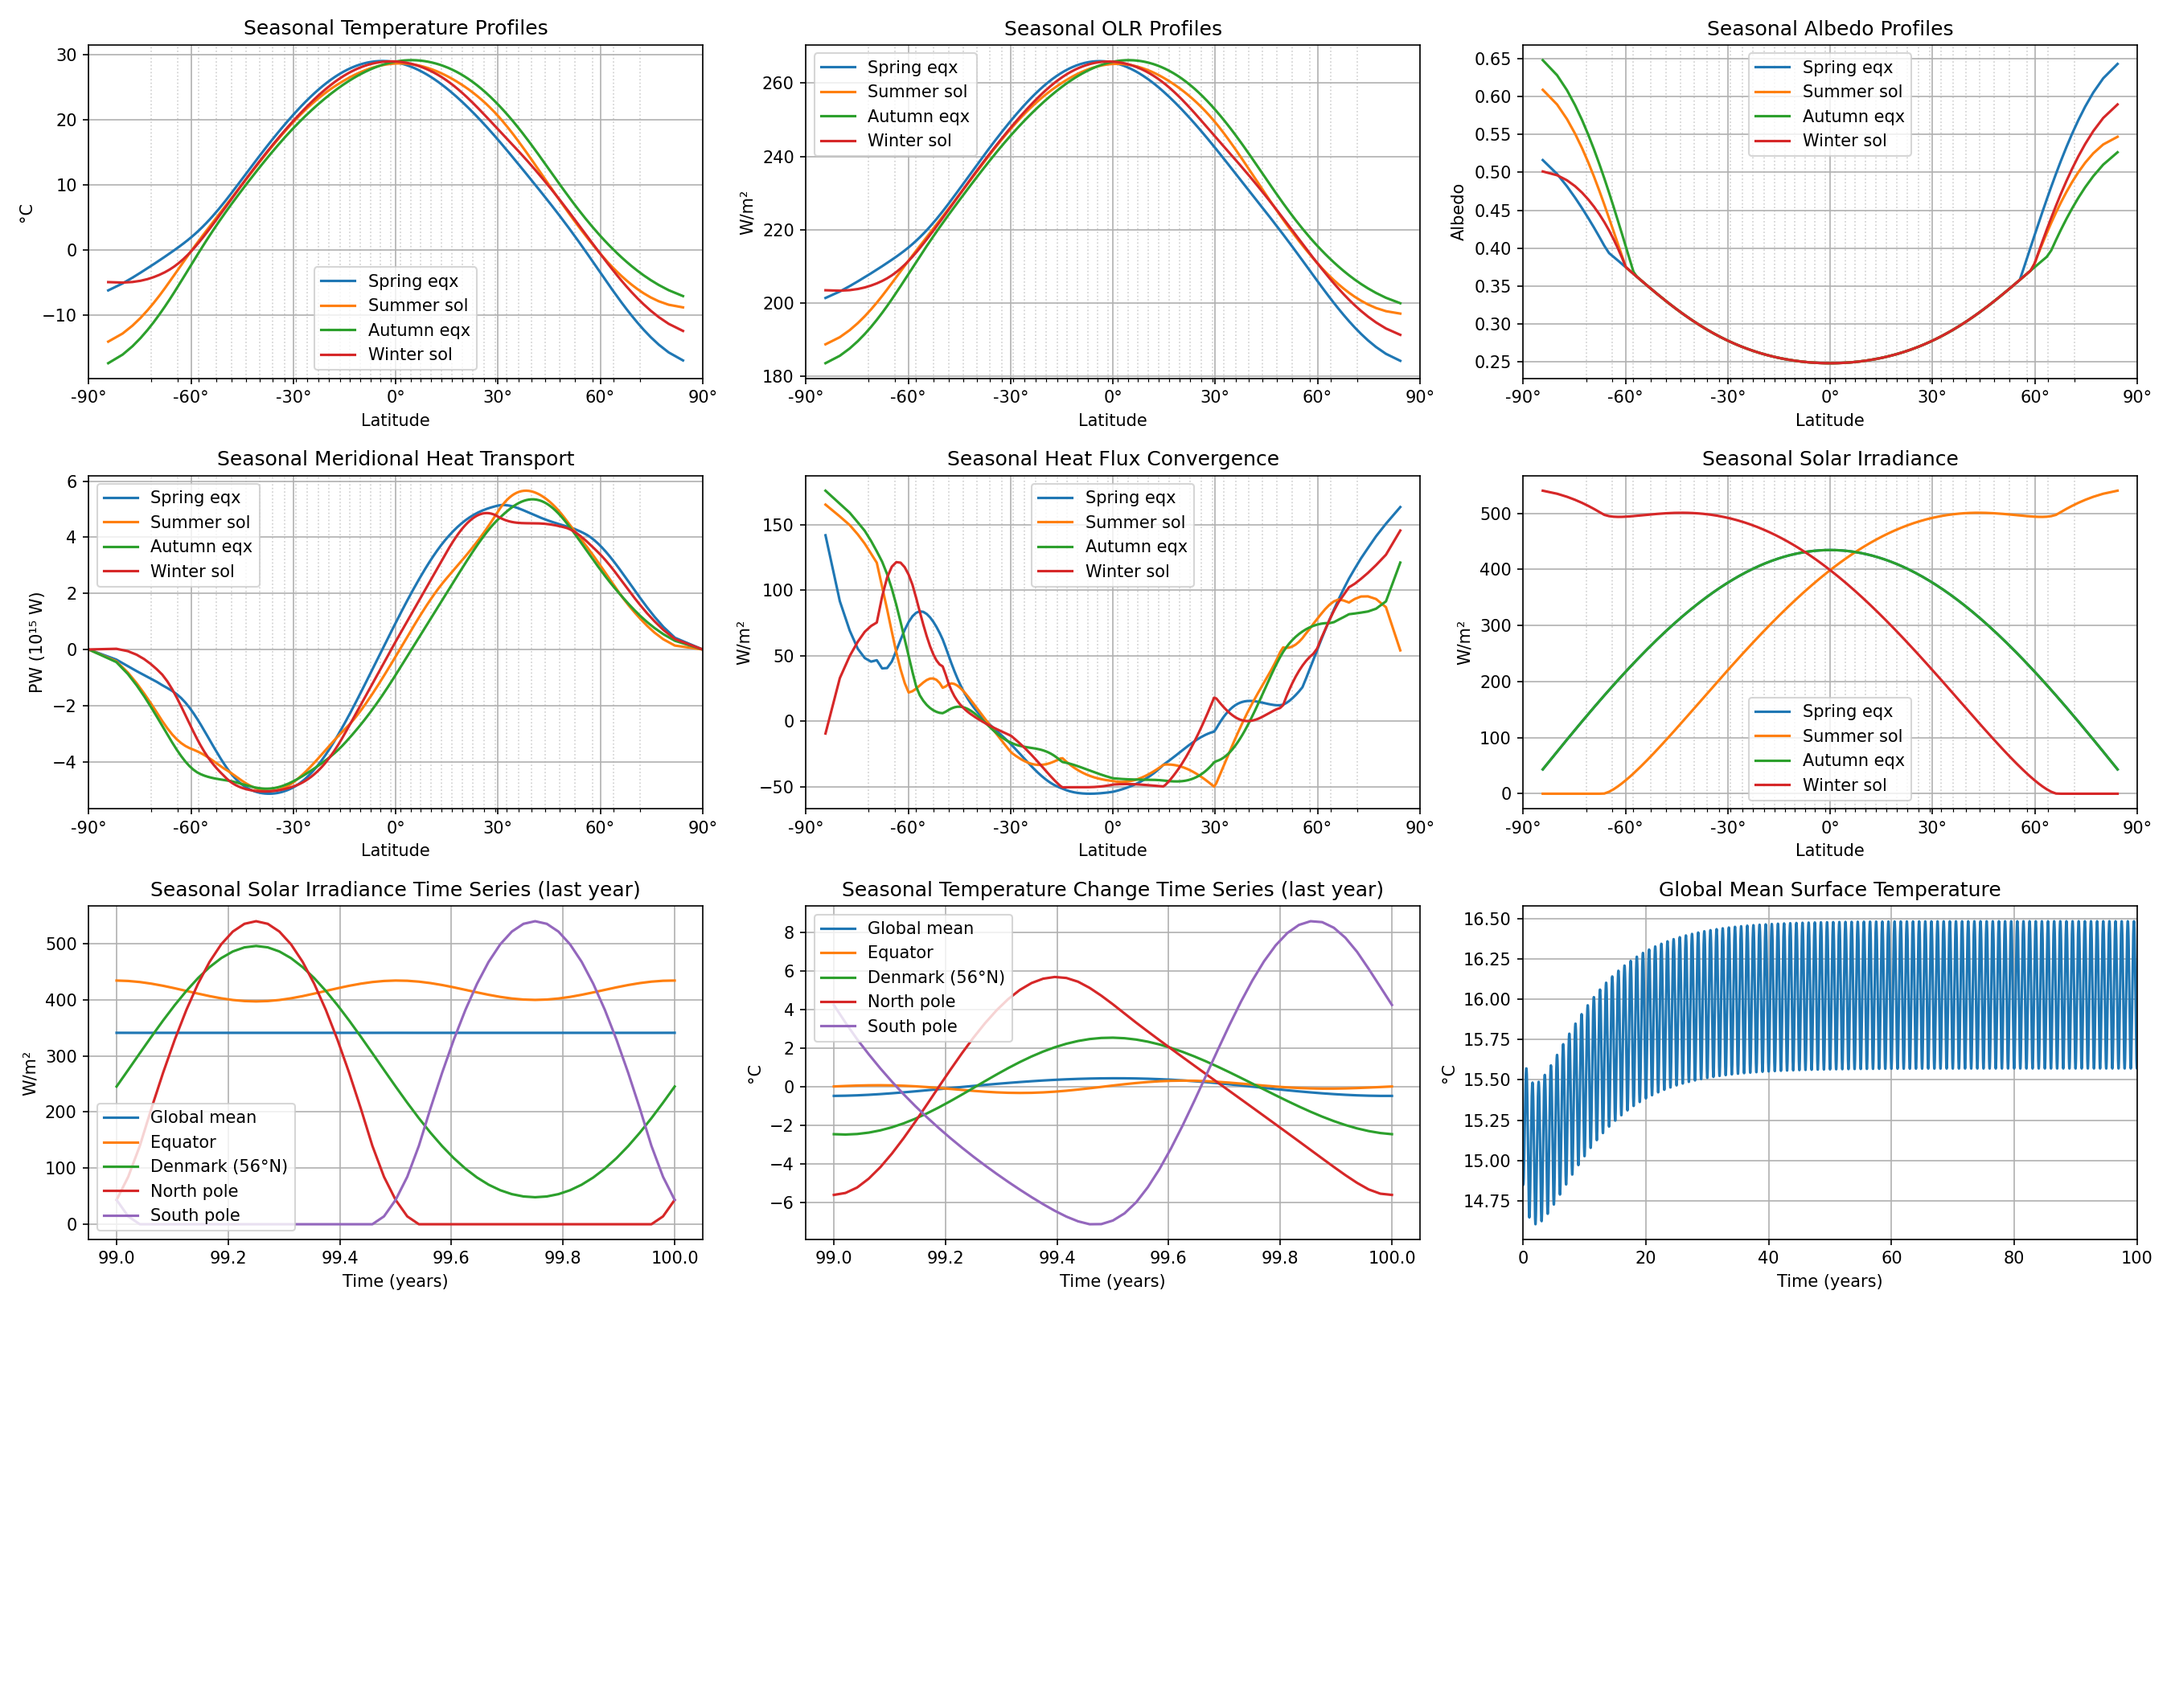
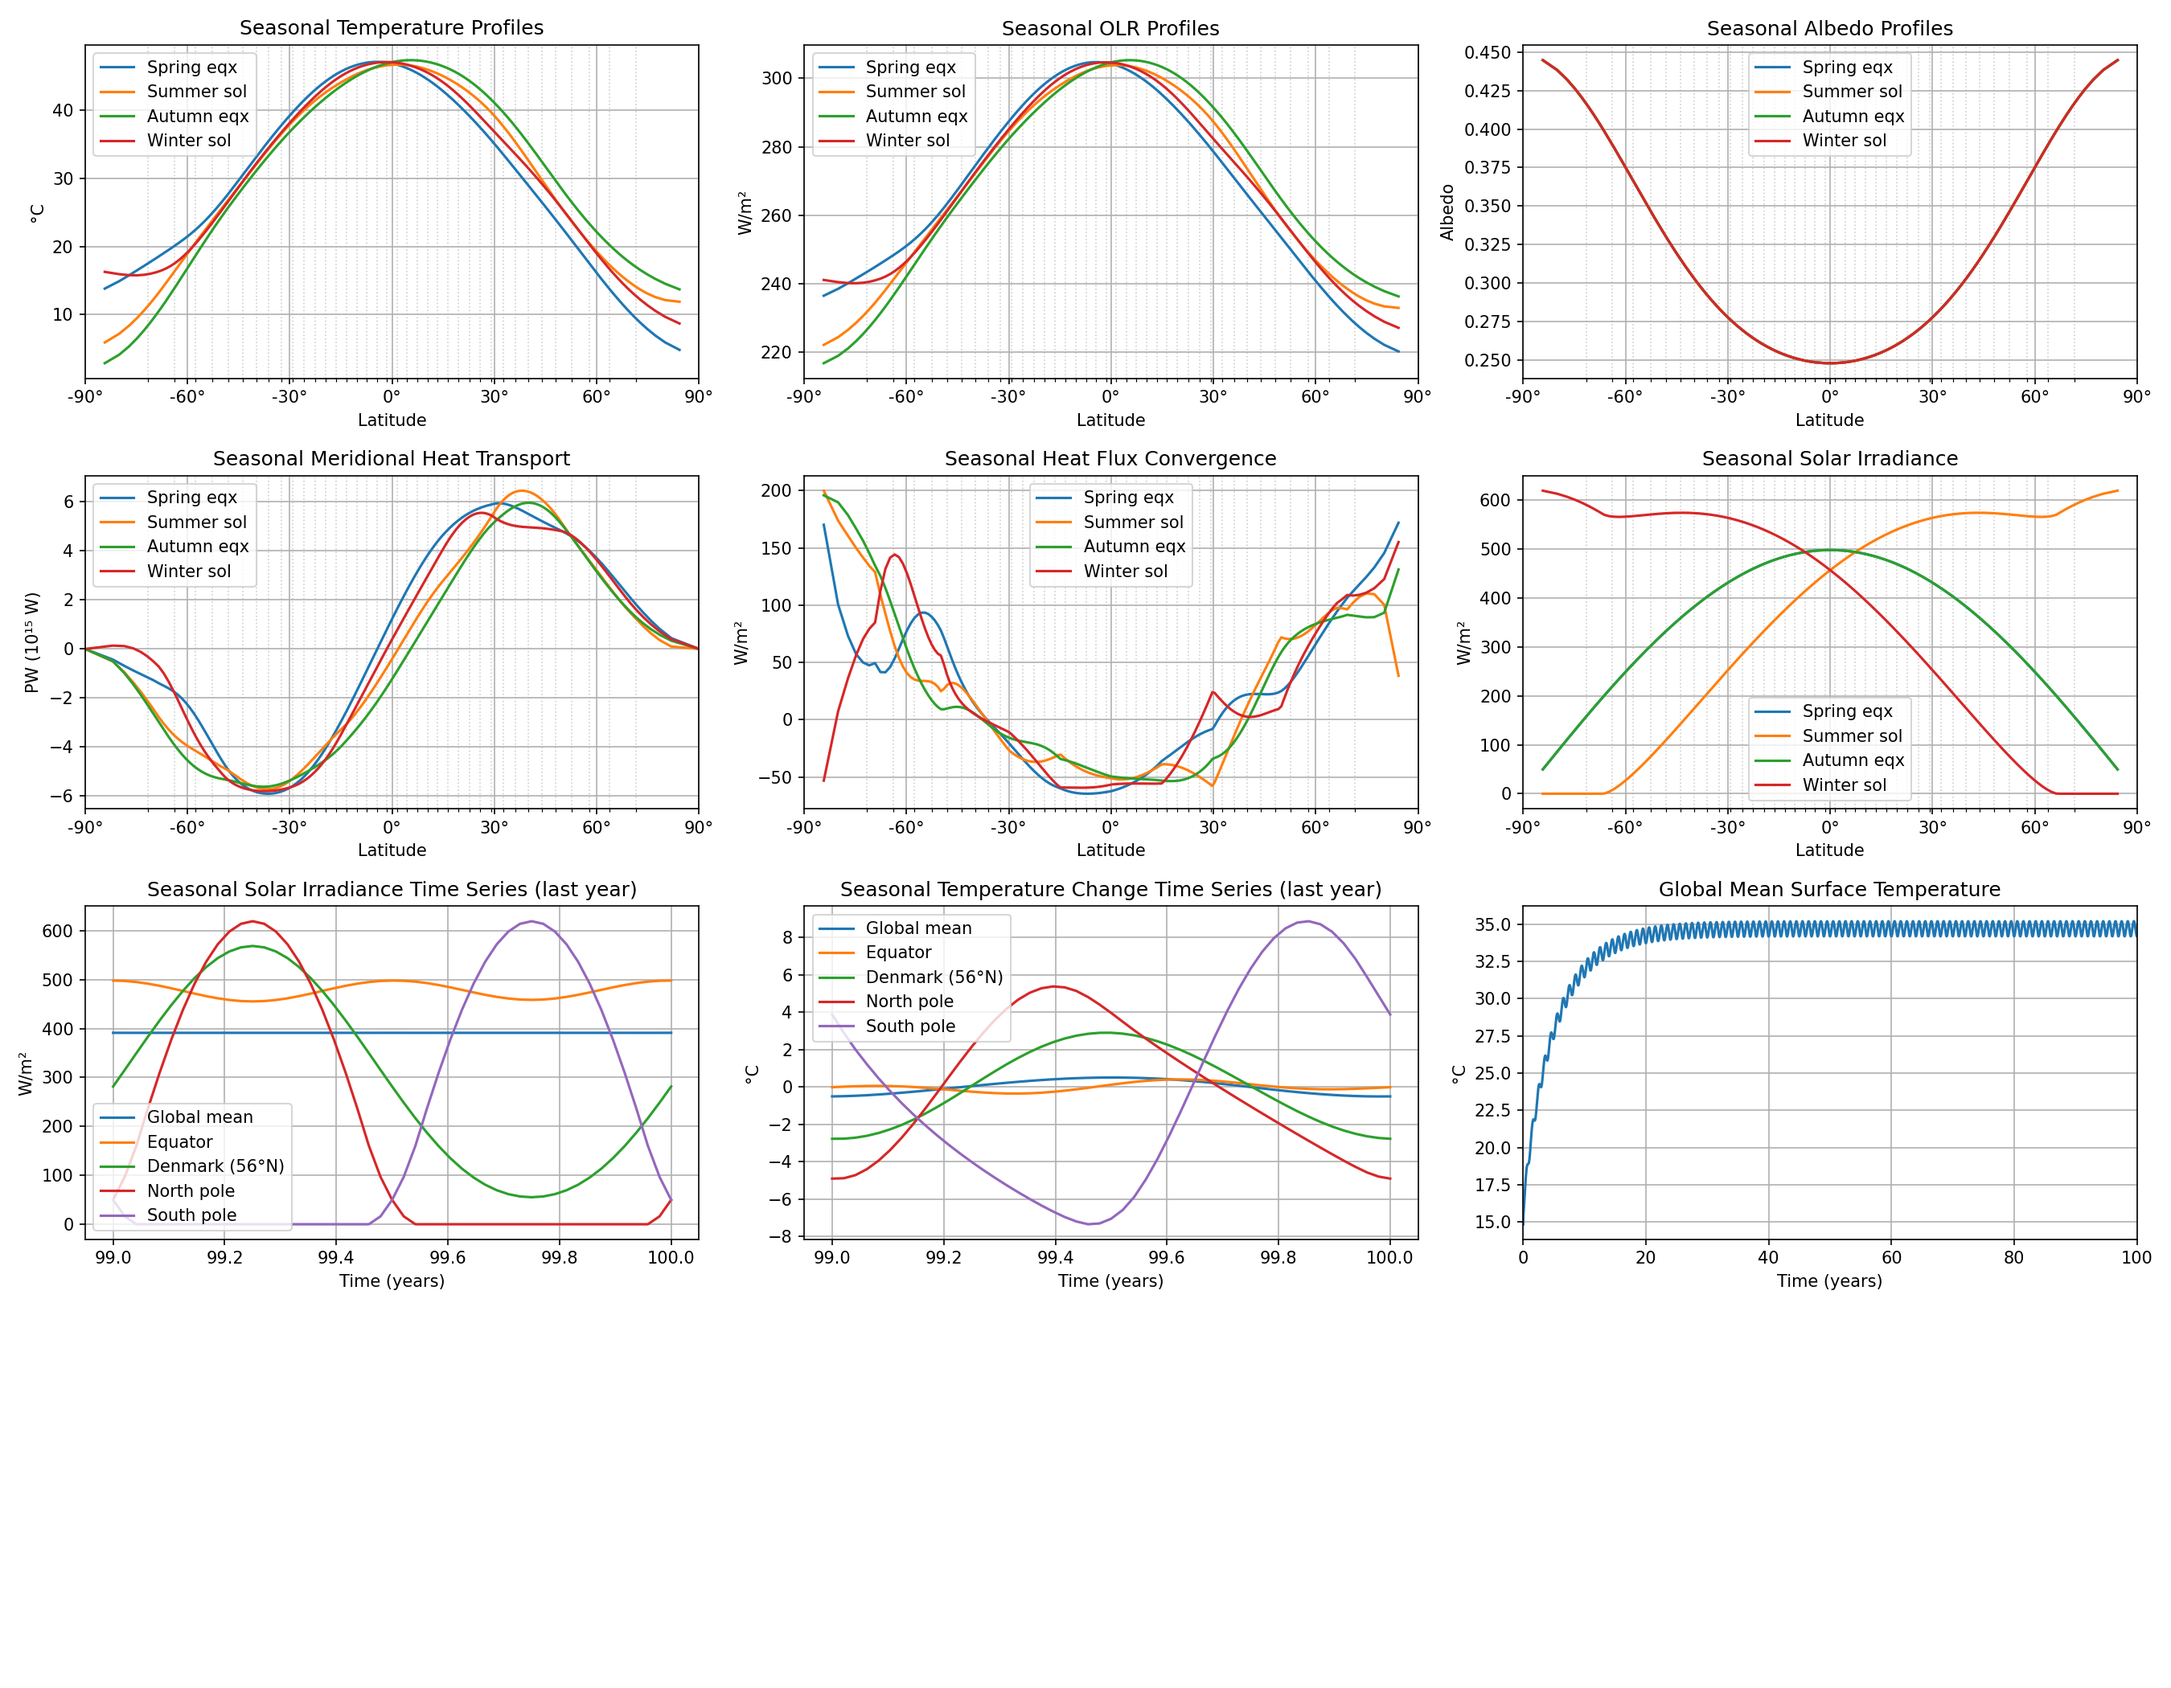
Made sea depth into a parameter and did some output formatting

diff --git a/outputs.py b/outputs.py
@@ -19,7 +19,8 @@ def print_simulation_info(config, params):
     print(header + "=" * (total_pwidth - len(header))) # number of "=" set to right align with following prints
     # print config details
     for key, value in config.items():
-        print(f"{key:<{max_ckey_len}} : {str(value)}") # - pad key to align the colons
+        formatted = f"{value:.3g}" if isinstance(value, float) else str(value)
+        print(f"{key:<{max_ckey_len}} : {formatted}") # - pad key to align the colons
     print("=" * total_pwidth + "\n")
 
     header = "=== EBM Model Parameters " # new header
@@ -317,13 +318,19 @@ class SeasonalOutput(OutPut):
             date = start + datetime.timedelta(days=offset_days)
             return date.strftime("%b %d")
         
+        def color_fmt(n, p=1):
+            start_fmt = end_fmt = "\033[0m"
+            if n > 40: start_fmt = "\033[31m"
+            elif n < 0: start_fmt = "\033[34m"
+            return f"{start_fmt}{n:>{p+4}.{p}f}{end_fmt}"
+        
         def fmt(series):
             min_idx, max_idx = series.argmin(), series.argmax()
             min_time = t[min_idx] % 1   # fractional year since last equinox
             max_time = t[max_idx] % 1
-            return (f"{series.mean():>6.2f}°C "
-                    f"(min {series.min():>5.1f} on {_date_from_fraction(min_time):>5} ({min_time:>4.2f}y), "
-                    f"max {series.max():>5.1f} on {_date_from_fraction(max_time):>5} ({max_time:>4.2f}y))")
+            return (color_fmt(series.mean(), 2) + "°C " +
+                    "min " + color_fmt(series.min()) + f" on {_date_from_fraction(min_time):>5} ({min_time:>4.2f}y), "
+                    f"max " + color_fmt(series.max()) + f" on {_date_from_fraction(max_time):>5} ({max_time:>4.2f}y))")
 
         global_T = self.last["T"].mean(axis=1) - 273.15
         equator_T = self.last["T"][:, self.locs["Equator"]] - 273.15

diff --git a/physics.py b/physics.py
@@ -2,7 +2,7 @@ import numpy as np
 
 # ---------------- Physical / model constants ----------------
 SIGMA = 5.67e-8                  # Stefan-Boltzmann (W/m²/K⁴)
-C = 1.046e9                      # Heat capacity (J m⁻² K⁻¹), 250 m mixed layer
+C_M = 4184 * 999                   # Heat capacity per meter depth of water (J m⁻² K⁻¹ / m)
 SECONDS_PER_YEAR = 365 * 24 * 3600
 R_EARTH = 6.371e6                # m
 
@@ -15,7 +15,7 @@ DELTA_T_MIN = 10.0               # K (lower bound)
 A_PROFILE = 45.0                 # K
 
 # short description of the default parameters
-PARAM_DESCS = {"k1": "ice albedo sensitivity", "k2": "diffusivity sensitivity", "k3": "lapse rate sensitivity", "D0": "background diffusivity", "T0": "initial temperature", "S": "solar forcing", "F": "additional forcing"}
+PARAM_DESCS = {"k1": "ice albedo sensitivity", "k2": "diffusivity sensitivity", "k3": "lapse rate sensitivity", "D0": "background diffusivity", "T0": "initial temperature", "SD": "mixed layer sea depth", "S": "solar forcing", "F": "additional forcing"}
 
 # Wrapper to add model and i as optional input but ignore them
 def Input(func):

diff --git a/model.py b/model.py
@@ -10,7 +10,7 @@ class ClimateModel:
         self.modes = modes
         self.outputs = outputs
         self.funcs = {name: func for name, func in vars(phys).items() if callable(func)} # Physics functions
-        self.C = phys.C # Heat capacity may be changed
+        self.C = phys.C_M * params['SD'] # Heat capacity may be changed
         for m in self.modes: m.check_compatibility(self.modes)
 
     def run(self):

diff --git a/main.py b/main.py
@@ -17,7 +17,7 @@ if __name__ == "__main__":
         config["ctrl_years"] = config["years"]//2
 
     # Default parameters
-    params = dict(k1=0.06, k2=0.01, k3=0.5, D0=0.66, T0=288.0,
+    params = dict(k1=0.06, k2=0.01, k3=0.5, D0=0.66, T0=288.0, SD=250,
                 S=1365.0, F=0.0)
     # Read parameters from file if it exists and update defaults
     if os.path.exists(PARAMETERS_FILE):
